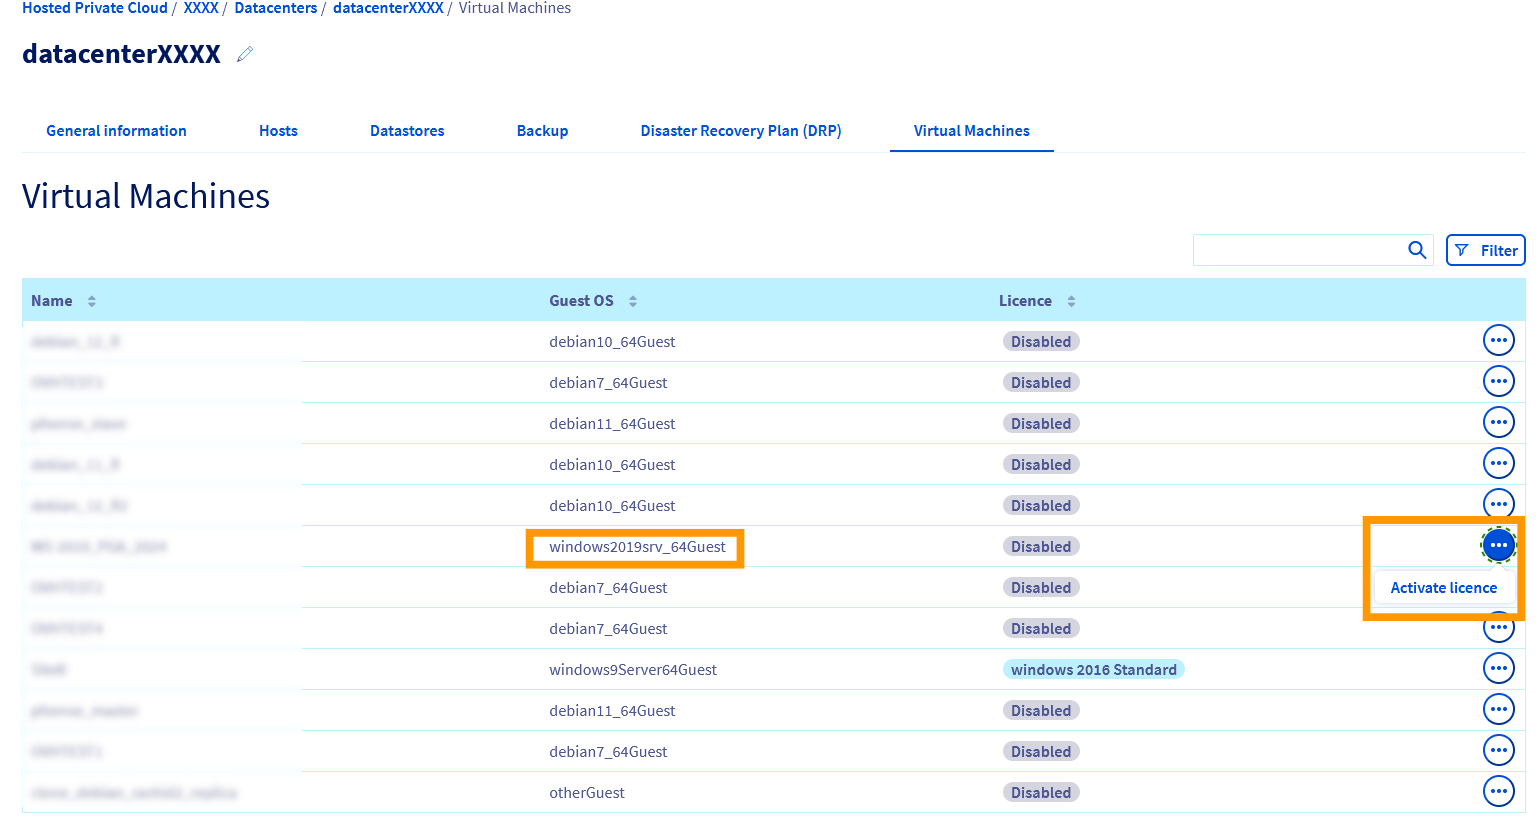
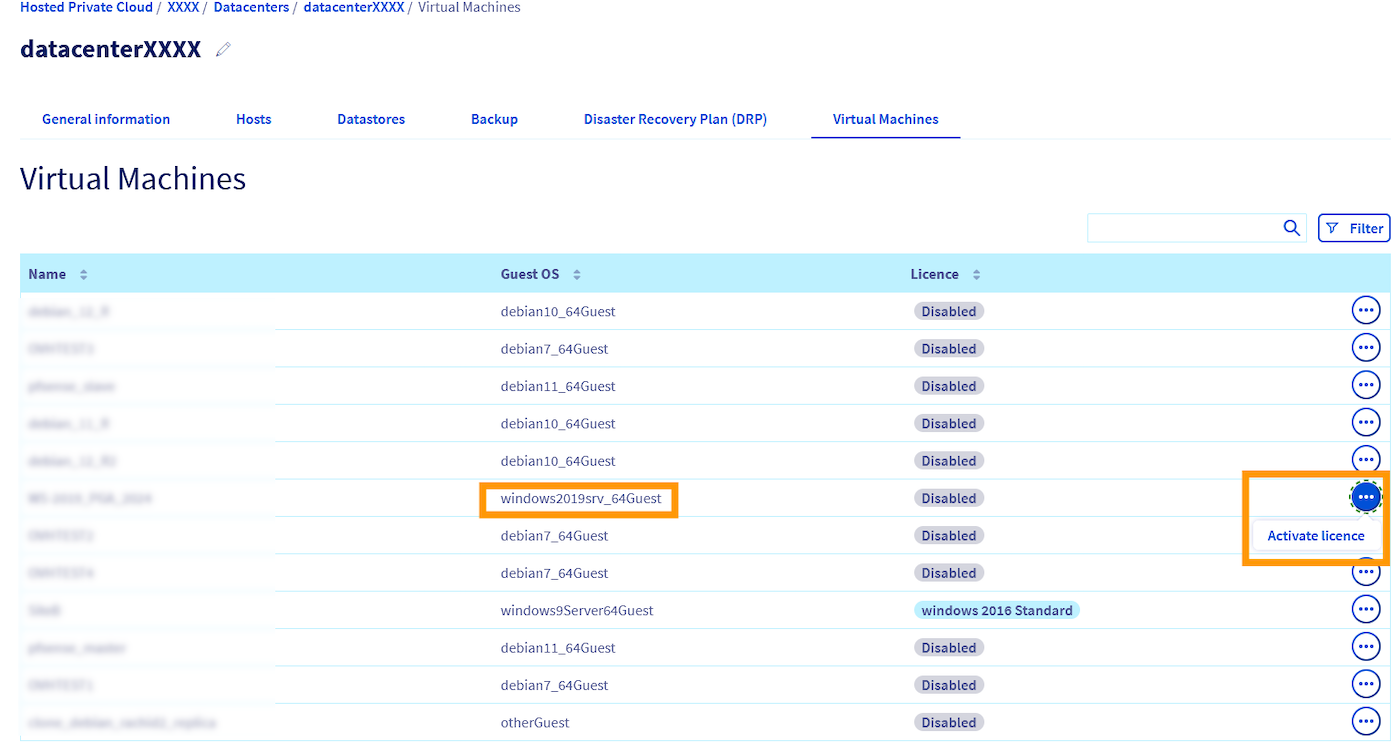
Fix - Images size reduction and/or replacement

diff --git a/pages/hosted_private_cloud/hosted_private_cloud_powered_by_vmware/spla_license_management/guide.de-de.md b/pages/hosted_private_cloud/hosted_private_cloud_powered_by_vmware/spla_license_management/guide.de-de.md
@@ -48,7 +48,7 @@ Here, you will find:
 - The **number of Windows VMs** (requiring a licence).
 - The **number of declared Windows VMs** (licenced by OVHcloud).
 
-![Licence overview](images/licence-visibility-EN.png){.thumbnail}
+![Licence overview](images/licence-visibility-EN-b.png){.thumbnail}
 
 > [!primary]
 > 
@@ -75,7 +75,7 @@ There are two scenarios:
 4. Choose the appropriate licence from the dropdown menu.
 5. Click `Activate`{.action} to confirm the action.
 
-![Activate licence](images/select-licence-EN.png){.thumbnail}
+    ![Activate licence](images/select-licence-EN-b.png){.thumbnail}
 
 > [!success]
 > 

diff --git a/pages/hosted_private_cloud/hosted_private_cloud_powered_by_vmware/spla_license_management/guide.en-asia.md b/pages/hosted_private_cloud/hosted_private_cloud_powered_by_vmware/spla_license_management/guide.en-asia.md
@@ -48,7 +48,7 @@ Here, you will find:
 - The **number of Windows VMs** (requiring a licence).
 - The **number of declared Windows VMs** (licenced by OVHcloud).
 
-![Licence overview](images/licence-visibility-EN.png){.thumbnail}
+![Licence overview](images/licence-visibility-EN-b.png){.thumbnail}
 
 > [!primary]
 > 
@@ -75,7 +75,7 @@ There are two scenarios:
 4. Choose the appropriate licence from the dropdown menu.
 5. Click `Activate`{.action} to confirm the action.
 
-![Activate licence](images/select-licence-EN.png){.thumbnail}
+    ![Activate licence](images/select-licence-EN-b.png){.thumbnail}
 
 > [!success]
 > 

diff --git a/pages/hosted_private_cloud/hosted_private_cloud_powered_by_vmware/spla_license_management/guide.en-au.md b/pages/hosted_private_cloud/hosted_private_cloud_powered_by_vmware/spla_license_management/guide.en-au.md
@@ -48,7 +48,7 @@ Here, you will find:
 - The **number of Windows VMs** (requiring a licence).
 - The **number of declared Windows VMs** (licenced by OVHcloud).
 
-![Licence overview](images/licence-visibility-EN.png){.thumbnail}
+![Licence overview](images/licence-visibility-EN-b.png){.thumbnail}
 
 > [!primary]
 > 
@@ -75,7 +75,7 @@ There are two scenarios:
 4. Choose the appropriate licence from the dropdown menu.
 5. Click `Activate`{.action} to confirm the action.
 
-![Activate licence](images/select-licence-EN.png){.thumbnail}
+    ![Activate licence](images/select-licence-EN-b.png){.thumbnail}
 
 > [!success]
 > 

diff --git a/pages/hosted_private_cloud/hosted_private_cloud_powered_by_vmware/spla_license_management/guide.en-ca.md b/pages/hosted_private_cloud/hosted_private_cloud_powered_by_vmware/spla_license_management/guide.en-ca.md
@@ -48,7 +48,7 @@ Here, you will find:
 - The **number of Windows VMs** (requiring a licence).
 - The **number of declared Windows VMs** (licenced by OVHcloud).
 
-![Licence overview](images/licence-visibility-EN.png){.thumbnail}
+![Licence overview](images/licence-visibility-EN-b.png){.thumbnail}
 
 > [!primary]
 > 
@@ -75,7 +75,7 @@ There are two scenarios:
 4. Choose the appropriate licence from the dropdown menu.
 5. Click `Activate`{.action} to confirm the action.
 
-![Activate licence](images/select-licence-EN.png){.thumbnail}
+    ![Activate licence](images/select-licence-EN-b.png){.thumbnail}
 
 > [!success]
 > 

diff --git a/pages/hosted_private_cloud/hosted_private_cloud_powered_by_vmware/spla_license_management/guide.en-gb.md b/pages/hosted_private_cloud/hosted_private_cloud_powered_by_vmware/spla_license_management/guide.en-gb.md
@@ -48,7 +48,7 @@ Here, you will find:
 - The **number of Windows VMs** (requiring a licence).
 - The **number of declared Windows VMs** (licenced by OVHcloud).
 
-![Licence overview](images/licence-visibility-EN.png){.thumbnail}
+![Licence overview](images/licence-visibility-EN-b.png){.thumbnail}
 
 > [!primary]
 > 
@@ -75,7 +75,7 @@ There are two scenarios:
 4. Choose the appropriate licence from the dropdown menu.
 5. Click `Activate`{.action} to confirm the action.
 
-![Activate licence](images/select-licence-EN.png){.thumbnail}
+    ![Activate licence](images/select-licence-EN-b.png){.thumbnail}
 
 > [!success]
 > 

diff --git a/pages/hosted_private_cloud/hosted_private_cloud_powered_by_vmware/spla_license_management/guide.en-ie.md b/pages/hosted_private_cloud/hosted_private_cloud_powered_by_vmware/spla_license_management/guide.en-ie.md
@@ -48,7 +48,7 @@ Here, you will find:
 - The **number of Windows VMs** (requiring a licence).
 - The **number of declared Windows VMs** (licenced by OVHcloud).
 
-![Licence overview](images/licence-visibility-EN.png){.thumbnail}
+![Licence overview](images/licence-visibility-EN-b.png){.thumbnail}
 
 > [!primary]
 > 
@@ -75,7 +75,7 @@ There are two scenarios:
 4. Choose the appropriate licence from the dropdown menu.
 5. Click `Activate`{.action} to confirm the action.
 
-![Activate licence](images/select-licence-EN.png){.thumbnail}
+    ![Activate licence](images/select-licence-EN-b.png){.thumbnail}
 
 > [!success]
 > 

diff --git a/pages/hosted_private_cloud/hosted_private_cloud_powered_by_vmware/spla_license_management/guide.en-sg.md b/pages/hosted_private_cloud/hosted_private_cloud_powered_by_vmware/spla_license_management/guide.en-sg.md
@@ -48,7 +48,7 @@ Here, you will find:
 - The **number of Windows VMs** (requiring a licence).
 - The **number of declared Windows VMs** (licenced by OVHcloud).
 
-![Licence overview](images/licence-visibility-EN.png){.thumbnail}
+![Licence overview](images/licence-visibility-EN-b.png){.thumbnail}
 
 > [!primary]
 > 
@@ -75,7 +75,7 @@ There are two scenarios:
 4. Choose the appropriate licence from the dropdown menu.
 5. Click `Activate`{.action} to confirm the action.
 
-![Activate licence](images/select-licence-EN.png){.thumbnail}
+    ![Activate licence](images/select-licence-EN-b.png){.thumbnail}
 
 > [!success]
 > 

diff --git a/pages/hosted_private_cloud/hosted_private_cloud_powered_by_vmware/spla_license_management/guide.en-us.md b/pages/hosted_private_cloud/hosted_private_cloud_powered_by_vmware/spla_license_management/guide.en-us.md
@@ -48,7 +48,7 @@ Here, you will find:
 - The **number of Windows VMs** (requiring a licence).
 - The **number of declared Windows VMs** (licenced by OVHcloud).
 
-![Licence overview](images/licence-visibility-EN.png){.thumbnail}
+![Licence overview](images/licence-visibility-EN-b.png){.thumbnail}
 
 > [!primary]
 > 
@@ -75,7 +75,7 @@ There are two scenarios:
 4. Choose the appropriate licence from the dropdown menu.
 5. Click `Activate`{.action} to confirm the action.
 
-![Activate licence](images/select-licence-EN.png){.thumbnail}
+    ![Activate licence](images/select-licence-EN-b.png){.thumbnail}
 
 > [!success]
 > 

diff --git a/pages/hosted_private_cloud/hosted_private_cloud_powered_by_vmware/spla_license_management/guide.es-es.md b/pages/hosted_private_cloud/hosted_private_cloud_powered_by_vmware/spla_license_management/guide.es-es.md
@@ -48,7 +48,7 @@ Here, you will find:
 - The **number of Windows VMs** (requiring a licence).
 - The **number of declared Windows VMs** (licenced by OVHcloud).
 
-![Licence overview](images/licence-visibility-EN.png){.thumbnail}
+![Licence overview](images/licence-visibility-EN-b.png){.thumbnail}
 
 > [!primary]
 > 
@@ -75,7 +75,7 @@ There are two scenarios:
 4. Choose the appropriate licence from the dropdown menu.
 5. Click `Activate`{.action} to confirm the action.
 
-![Activate licence](images/select-licence-EN.png){.thumbnail}
+    ![Activate licence](images/select-licence-EN-b.png){.thumbnail}
 
 > [!success]
 > 

diff --git a/pages/hosted_private_cloud/hosted_private_cloud_powered_by_vmware/spla_license_management/guide.es-us.md b/pages/hosted_private_cloud/hosted_private_cloud_powered_by_vmware/spla_license_management/guide.es-us.md
@@ -48,7 +48,7 @@ Here, you will find:
 - The **number of Windows VMs** (requiring a licence).
 - The **number of declared Windows VMs** (licenced by OVHcloud).
 
-![Licence overview](images/licence-visibility-EN.png){.thumbnail}
+![Licence overview](images/licence-visibility-EN-b.png){.thumbnail}
 
 > [!primary]
 > 
@@ -75,7 +75,7 @@ There are two scenarios:
 4. Choose the appropriate licence from the dropdown menu.
 5. Click `Activate`{.action} to confirm the action.
 
-![Activate licence](images/select-licence-EN.png){.thumbnail}
+    ![Activate licence](images/select-licence-EN-b.png){.thumbnail}
 
 > [!success]
 > 

diff --git a/pages/hosted_private_cloud/hosted_private_cloud_powered_by_vmware/spla_license_management/guide.it-it.md b/pages/hosted_private_cloud/hosted_private_cloud_powered_by_vmware/spla_license_management/guide.it-it.md
@@ -48,7 +48,7 @@ Here, you will find:
 - The **number of Windows VMs** (requiring a licence).
 - The **number of declared Windows VMs** (licenced by OVHcloud).
 
-![Licence overview](images/licence-visibility-EN.png){.thumbnail}
+![Licence overview](images/licence-visibility-EN-b.png){.thumbnail}
 
 > [!primary]
 > 
@@ -75,7 +75,7 @@ There are two scenarios:
 4. Choose the appropriate licence from the dropdown menu.
 5. Click `Activate`{.action} to confirm the action.
 
-![Activate licence](images/select-licence-EN.png){.thumbnail}
+    ![Activate licence](images/select-licence-EN-b.png){.thumbnail}
 
 > [!success]
 > 

diff --git a/pages/hosted_private_cloud/hosted_private_cloud_powered_by_vmware/spla_license_management/guide.pl-pl.md b/pages/hosted_private_cloud/hosted_private_cloud_powered_by_vmware/spla_license_management/guide.pl-pl.md
@@ -48,7 +48,7 @@ Here, you will find:
 - The **number of Windows VMs** (requiring a licence).
 - The **number of declared Windows VMs** (licenced by OVHcloud).
 
-![Licence overview](images/licence-visibility-EN.png){.thumbnail}
+![Licence overview](images/licence-visibility-EN-b.png){.thumbnail}
 
 > [!primary]
 > 
@@ -75,7 +75,7 @@ There are two scenarios:
 4. Choose the appropriate licence from the dropdown menu.
 5. Click `Activate`{.action} to confirm the action.
 
-![Activate licence](images/select-licence-EN.png){.thumbnail}
+    ![Activate licence](images/select-licence-EN-b.png){.thumbnail}
 
 > [!success]
 > 